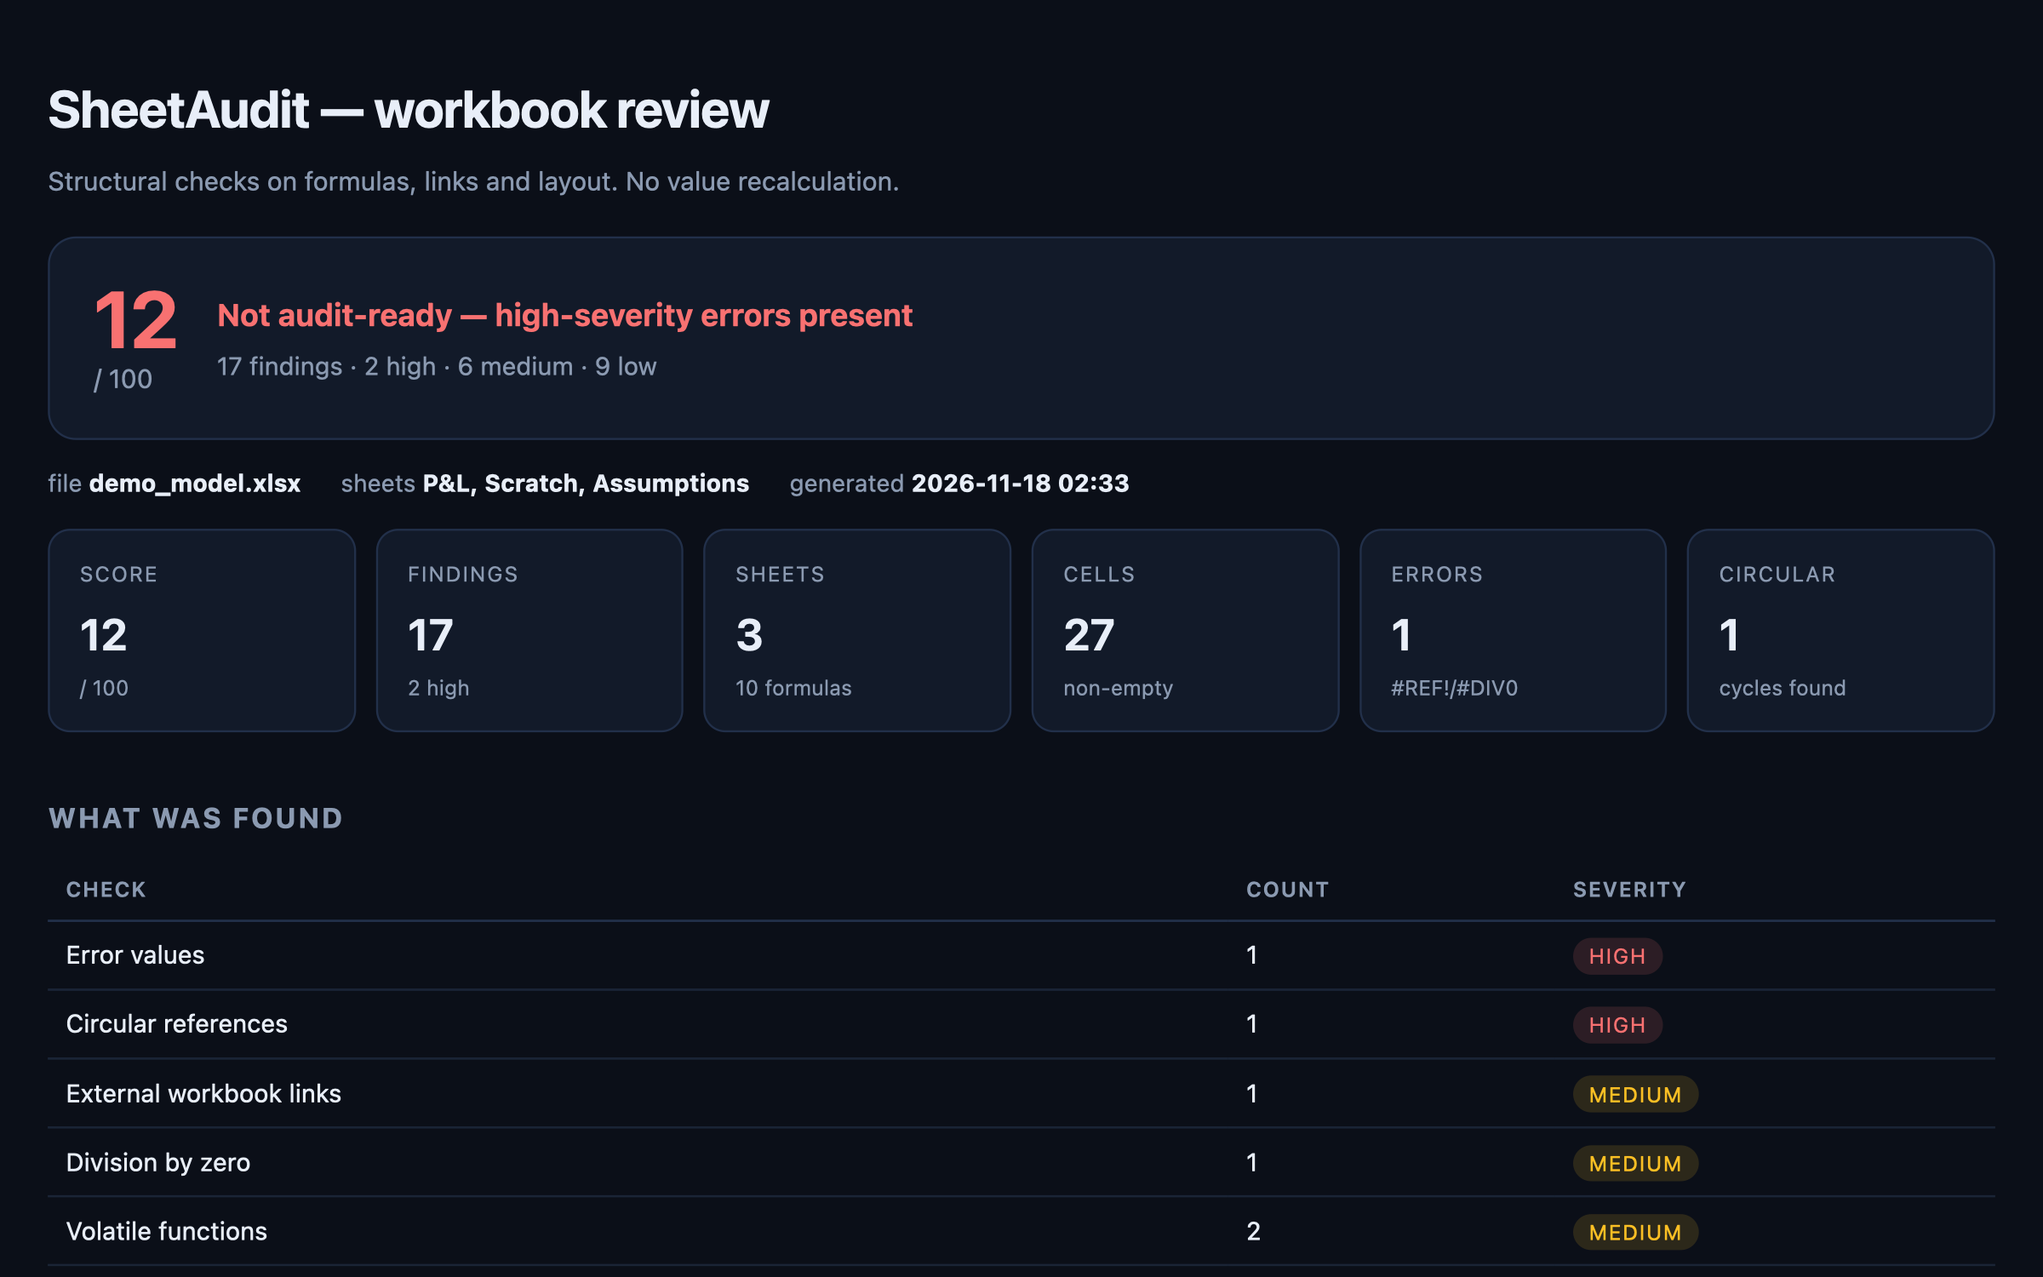
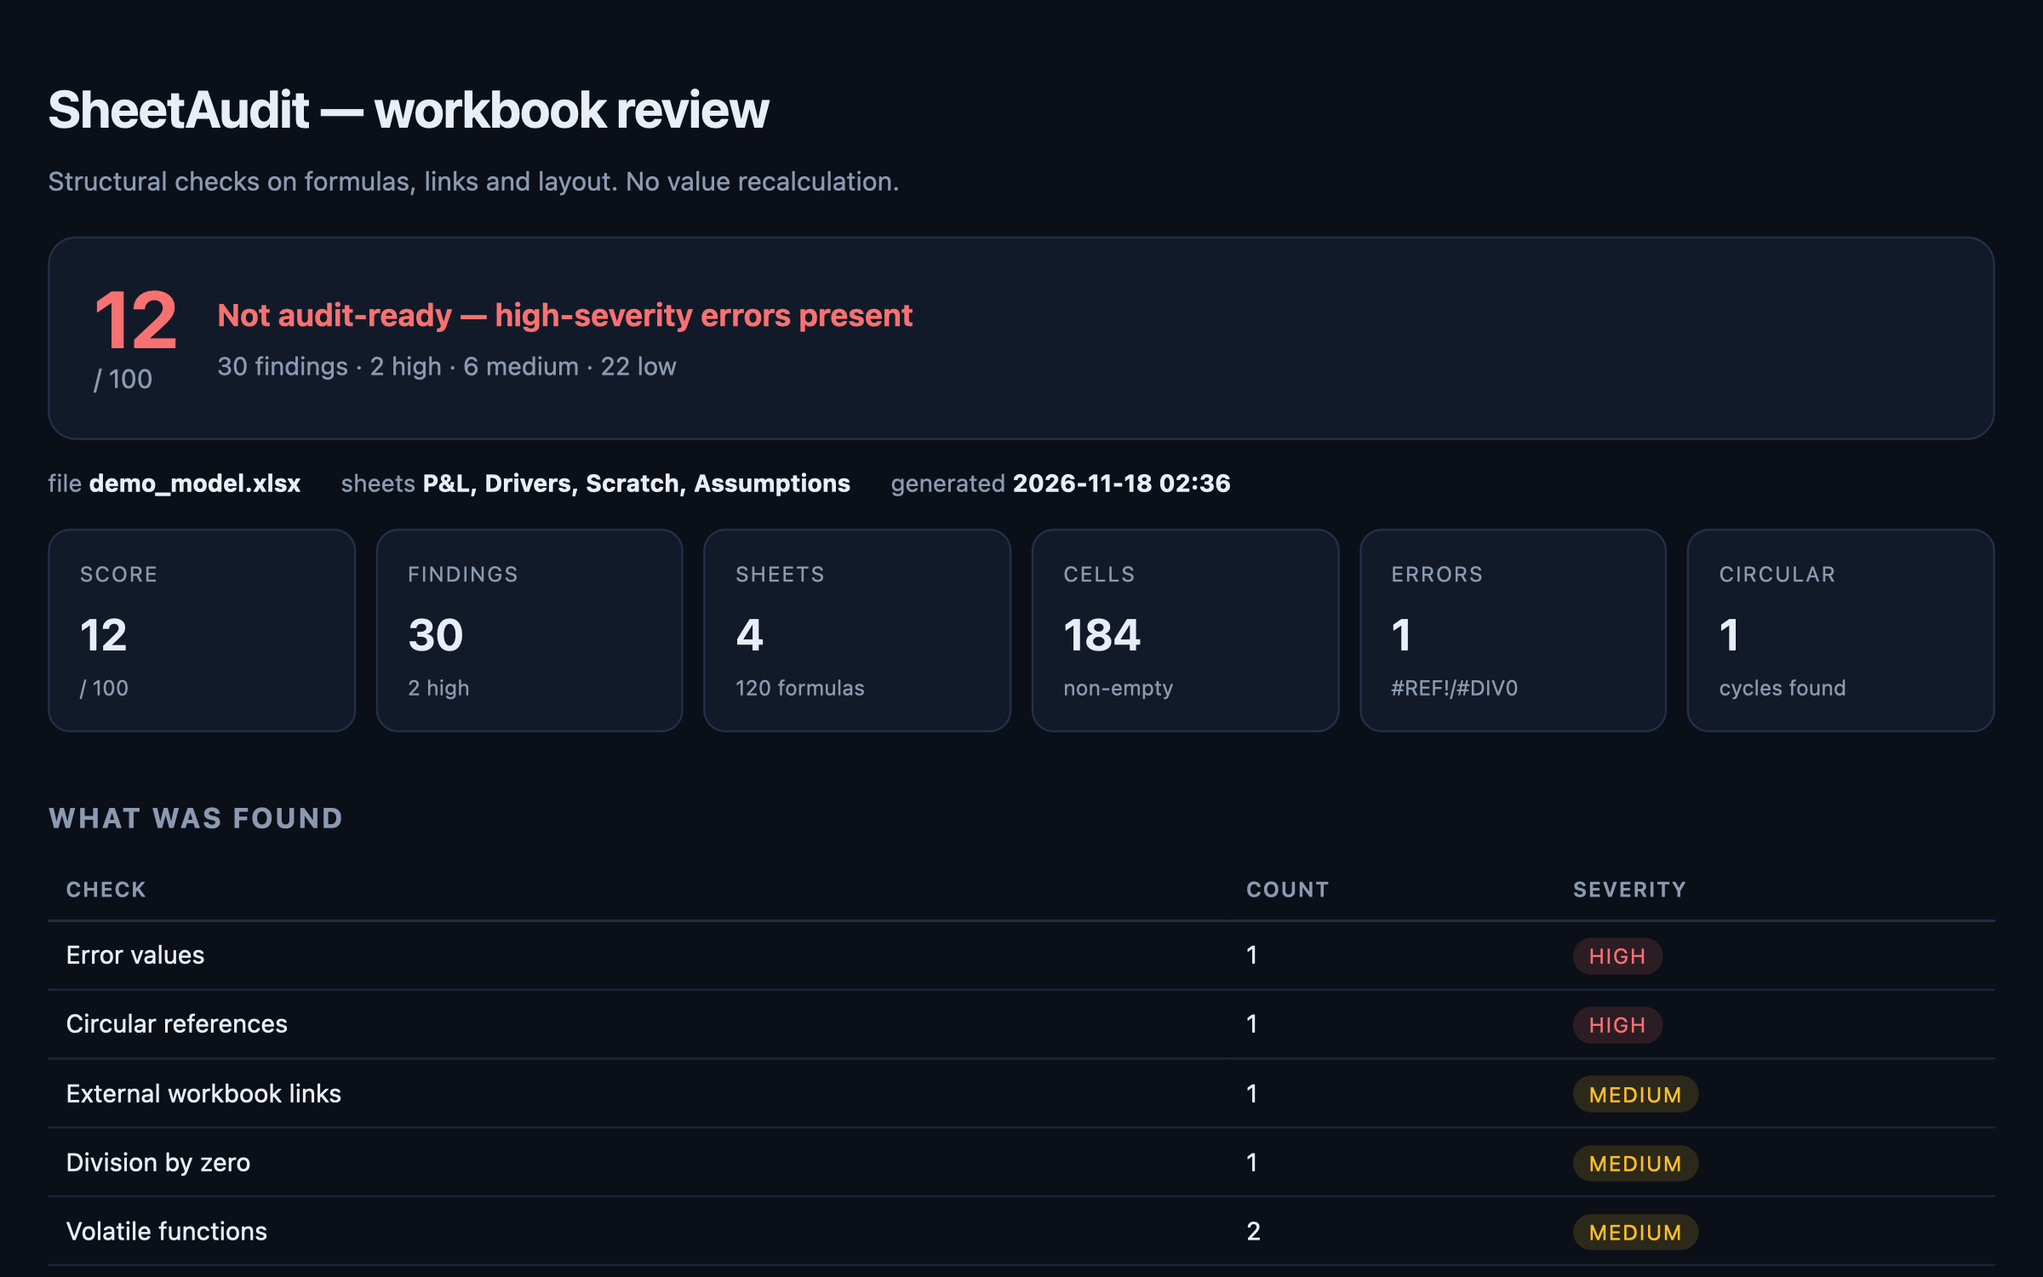
fix cross-sheet references being mis-read as cycles; tighten drift and constant heuristics

diff --git a/examples/sheetaudit-report.html b/examples/sheetaudit-report.html
@@ -46,12 +46,12 @@ font-size:11.5px;display:flex;justify-content:space-between;flex-wrap:wrap;gap:8
 <div class="hero"><div><div class="score" style="color:#f87171">12</div>
 <div class="sub">/ 100</div></div>
 <div><div class="vt" style="color:#f87171">Not audit-ready — high-severity errors present</div>
-<div class="vd">17 findings · 2 high ·
-6 medium · 9 low</div></div></div>
+<div class="vd">30 findings · 2 high ·
+6 medium · 22 low</div></div></div>
 <div class="meta">
 <span>file <b>demo_model.xlsx</b></span>
-<span>sheets <b>P&amp;L, Scratch, Assumptions</b></span>
-<span>generated <b>2026-11-18 02:33</b></span></div>
-<div class="cards"><div class="card"><div class="l">Score</div><div class="v">12</div><div class="f">/ 100</div></div><div class="card"><div class="l">Findings</div><div class="v">17</div><div class="f">2 high</div></div><div class="card"><div class="l">Sheets</div><div class="v">3</div><div class="f">10 formulas</div></div><div class="card"><div class="l">Cells</div><div class="v">27</div><div class="f">non-empty</div></div><div class="card"><div class="l">Errors</div><div class="v">1</div><div class="f">#REF!/#DIV0</div></div><div class="card"><div class="l">Circular</div><div class="v">1</div><div class="f">cycles found</div></div></div>
-<h2>What was found</h2><table><thead><tr><th>Check</th><th>Count</th><th>Severity</th></tr></thead><tbody><tr><td>Error values</td><td>1</td><td><span class="badge high">high</span></td></tr><tr><td>Circular references</td><td>1</td><td><span class="badge high">high</span></td></tr><tr><td>External workbook links</td><td>1</td><td><span class="badge medium">medium</span></td></tr><tr><td>Division by zero</td><td>1</td><td><span class="badge medium">medium</span></td></tr><tr><td>Volatile functions</td><td>2</td><td><span class="badge medium">medium</span></td></tr><tr><td>Formula drift in a column</td><td>1</td><td><span class="badge medium">medium</span></td></tr><tr><td>Hidden sheets with live formulas</td><td>1</td><td><span class="badge medium">medium</span></td></tr><tr><td>Hardcoded constants in formulas</td><td>6</td><td><span class="badge low">low</span></td></tr><tr><td>Numbers stored as text</td><td>1</td><td><span class="badge low">low</span></td></tr><tr><td>Merged cells</td><td>1</td><td><span class="badge low">low</span></td></tr><tr><td>Workbook structure not protected</td><td>1</td><td><span class="badge low">low</span></td></tr></tbody></table><h2>Findings</h2><table><thead><tr><th>Severity</th><th>Check</th><th>Sheet</th><th>Cell</th><th>Detail</th></tr></thead><tbody><tr><td><span class="badge high">high</span></td><td>error_value</td><td>P&amp;L</td><td><span class="mono">B9</span></td><td>#REF! in B9</td></tr><tr><td><span class="badge high">high</span></td><td>circular_reference</td><td>Scratch</td><td><span class="mono">A1</span></td><td>cycle: A1</td></tr><tr><td><span class="badge medium">medium</span></td><td>inconsistent_formula</td><td>P&amp;L</td><td><span class="mono">C6</span></td><td>1 of 5 cells in this column deviate from the pattern</td></tr><tr><td><span class="badge medium">medium</span></td><td>volatile_function</td><td>P&amp;L</td><td><span class="mono">D2</span></td><td>INDIRECT forces recalculation</td></tr><tr><td><span class="badge medium">medium</span></td><td>external_link</td><td>P&amp;L</td><td><span class="mono">E2</span></td><td>formula points at another workbook</td></tr><tr><td><span class="badge medium">medium</span></td><td>division_by_zero</td><td>P&amp;L</td><td><span class="mono">F2</span></td><td>formula divides by a literal zero</td></tr><tr><td><span class="badge medium">medium</span></td><td>hidden_sheet</td><td>Scratch</td><td><span class="mono">-</span></td><td>sheet is hidden with 2 live formulas</td></tr><tr><td><span class="badge medium">medium</span></td><td>volatile_function</td><td>Scratch</td><td><span class="mono">A2</span></td><td>OFFSET forces recalculation</td></tr><tr><td><span class="badge low">low</span></td><td>no_structure_protection</td><td>&lt;workbook&gt;</td><td><span class="mono">-</span></td><td>sheets can be added, deleted or reordered without a password</td></tr><tr><td><span class="badge low">low</span></td><td>number_as_text</td><td>P&amp;L</td><td><span class="mono">A10</span></td><td>numeric text &#x27;1234&#x27; will not sum</td></tr><tr><td><span class="badge low">low</span></td><td>merged_cells</td><td>P&amp;L</td><td><span class="mono">A12:B12</span></td><td>merged range can break sorting and copy-down</td></tr><tr><td><span class="badge low">low</span></td><td>hardcoded_constant</td><td>P&amp;L</td><td><span class="mono">C2</span></td><td>formula carries 1 constants: 1.05</td></tr><tr><td><span class="badge low">low</span></td><td>hardcoded_constant</td><td>P&amp;L</td><td><span class="mono">C3</span></td><td>formula carries 1 constants: 1.05</td></tr><tr><td><span class="badge low">low</span></td><td>hardcoded_constant</td><td>P&amp;L</td><td><span class="mono">C4</span></td><td>formula carries 1 constants: 1.05</td></tr><tr><td><span class="badge low">low</span></td><td>hardcoded_constant</td><td>P&amp;L</td><td><span class="mono">C5</span></td><td>formula carries 1 constants: 1.05</td></tr><tr><td><span class="badge low">low</span></td><td>hardcoded_constant</td><td>P&amp;L</td><td><span class="mono">C6</span></td><td>formula carries 1 constants: 1.08</td></tr><tr><td><span class="badge low">low</span></td><td>hardcoded_constant</td><td>P&amp;L</td><td><span class="mono">E2</span></td><td>formula carries 1 constants: 2025</td></tr></tbody></table><footer><span>SheetAudit 0.1.0 · built on openpyxl (MIT)</span>
+<span>sheets <b>P&amp;L, Drivers, Scratch, Assumptions</b></span>
+<span>generated <b>2026-11-18 02:36</b></span></div>
+<div class="cards"><div class="card"><div class="l">Score</div><div class="v">12</div><div class="f">/ 100</div></div><div class="card"><div class="l">Findings</div><div class="v">30</div><div class="f">2 high</div></div><div class="card"><div class="l">Sheets</div><div class="v">4</div><div class="f">120 formulas</div></div><div class="card"><div class="l">Cells</div><div class="v">184</div><div class="f">non-empty</div></div><div class="card"><div class="l">Errors</div><div class="v">1</div><div class="f">#REF!/#DIV0</div></div><div class="card"><div class="l">Circular</div><div class="v">1</div><div class="f">cycles found</div></div></div>
+<h2>What was found</h2><table><thead><tr><th>Check</th><th>Count</th><th>Severity</th></tr></thead><tbody><tr><td>Error values</td><td>1</td><td><span class="badge high">high</span></td></tr><tr><td>Circular references</td><td>1</td><td><span class="badge high">high</span></td></tr><tr><td>External workbook links</td><td>1</td><td><span class="badge medium">medium</span></td></tr><tr><td>Division by zero</td><td>1</td><td><span class="badge medium">medium</span></td></tr><tr><td>Volatile functions</td><td>2</td><td><span class="badge medium">medium</span></td></tr><tr><td>Formula drift in a column</td><td>1</td><td><span class="badge medium">medium</span></td></tr><tr><td>Hidden sheets with live formulas</td><td>1</td><td><span class="badge medium">medium</span></td></tr><tr><td>Hardcoded constants in formulas</td><td>20</td><td><span class="badge low">low</span></td></tr><tr><td>Merged cells</td><td>1</td><td><span class="badge low">low</span></td></tr><tr><td>Workbook structure not protected</td><td>1</td><td><span class="badge low">low</span></td></tr></tbody></table><h2>Findings</h2><table><thead><tr><th>Severity</th><th>Check</th><th>Sheet</th><th>Cell</th><th>Detail</th></tr></thead><tbody><tr><td><span class="badge high">high</span></td><td>error_value</td><td>P&amp;L</td><td><span class="mono">B24</span></td><td>#REF! in B24</td></tr><tr><td><span class="badge high">high</span></td><td>circular_reference</td><td>Scratch</td><td><span class="mono">A1</span></td><td>cycle: A1</td></tr><tr><td><span class="badge medium">medium</span></td><td>inconsistent_formula</td><td>P&amp;L</td><td><span class="mono">C20</span></td><td>1 of 19 cells in this column deviate from the pattern</td></tr><tr><td><span class="badge medium">medium</span></td><td>volatile_function</td><td>P&amp;L</td><td><span class="mono">D2</span></td><td>INDIRECT forces recalculation</td></tr><tr><td><span class="badge medium">medium</span></td><td>external_link</td><td>P&amp;L</td><td><span class="mono">E2</span></td><td>formula points at another workbook</td></tr><tr><td><span class="badge medium">medium</span></td><td>division_by_zero</td><td>P&amp;L</td><td><span class="mono">F2</span></td><td>formula divides by a literal zero</td></tr><tr><td><span class="badge medium">medium</span></td><td>hidden_sheet</td><td>Scratch</td><td><span class="mono">-</span></td><td>sheet is hidden with 2 live formulas</td></tr><tr><td><span class="badge medium">medium</span></td><td>volatile_function</td><td>Scratch</td><td><span class="mono">A2</span></td><td>OFFSET forces recalculation</td></tr><tr><td><span class="badge low">low</span></td><td>no_structure_protection</td><td>&lt;workbook&gt;</td><td><span class="mono">-</span></td><td>sheets can be added, deleted or reordered without a password</td></tr><tr><td><span class="badge low">low</span></td><td>merged_cells</td><td>P&amp;L</td><td><span class="mono">A28:B28</span></td><td>merged range can break sorting and copy-down</td></tr><tr><td><span class="badge low">low</span></td><td>hardcoded_constant</td><td>P&amp;L</td><td><span class="mono">C10</span></td><td>formula carries 1 hardcoded constant(s): 1.05</td></tr><tr><td><span class="badge low">low</span></td><td>hardcoded_constant</td><td>P&amp;L</td><td><span class="mono">C11</span></td><td>formula carries 1 hardcoded constant(s): 1.05</td></tr><tr><td><span class="badge low">low</span></td><td>hardcoded_constant</td><td>P&amp;L</td><td><span class="mono">C12</span></td><td>formula carries 1 hardcoded constant(s): 1.05</td></tr><tr><td><span class="badge low">low</span></td><td>hardcoded_constant</td><td>P&amp;L</td><td><span class="mono">C13</span></td><td>formula carries 1 hardcoded constant(s): 1.05</td></tr><tr><td><span class="badge low">low</span></td><td>hardcoded_constant</td><td>P&amp;L</td><td><span class="mono">C14</span></td><td>formula carries 1 hardcoded constant(s): 1.05</td></tr><tr><td><span class="badge low">low</span></td><td>hardcoded_constant</td><td>P&amp;L</td><td><span class="mono">C15</span></td><td>formula carries 1 hardcoded constant(s): 1.05</td></tr><tr><td><span class="badge low">low</span></td><td>hardcoded_constant</td><td>P&amp;L</td><td><span class="mono">C16</span></td><td>formula carries 1 hardcoded constant(s): 1.05</td></tr><tr><td><span class="badge low">low</span></td><td>hardcoded_constant</td><td>P&amp;L</td><td><span class="mono">C17</span></td><td>formula carries 1 hardcoded constant(s): 1.05</td></tr><tr><td><span class="badge low">low</span></td><td>hardcoded_constant</td><td>P&amp;L</td><td><span class="mono">C18</span></td><td>formula carries 1 hardcoded constant(s): 1.05</td></tr><tr><td><span class="badge low">low</span></td><td>hardcoded_constant</td><td>P&amp;L</td><td><span class="mono">C19</span></td><td>formula carries 1 hardcoded constant(s): 1.05</td></tr><tr><td><span class="badge low">low</span></td><td>hardcoded_constant</td><td>P&amp;L</td><td><span class="mono">C2</span></td><td>formula carries 1 hardcoded constant(s): 1.05</td></tr><tr><td><span class="badge low">low</span></td><td>hardcoded_constant</td><td>P&amp;L</td><td><span class="mono">C20</span></td><td>formula carries 1 hardcoded constant(s): 1.08</td></tr><tr><td><span class="badge low">low</span></td><td>hardcoded_constant</td><td>P&amp;L</td><td><span class="mono">C3</span></td><td>formula carries 1 hardcoded constant(s): 1.05</td></tr><tr><td><span class="badge low">low</span></td><td>hardcoded_constant</td><td>P&amp;L</td><td><span class="mono">C4</span></td><td>formula carries 1 hardcoded constant(s): 1.05</td></tr><tr><td><span class="badge low">low</span></td><td>hardcoded_constant</td><td>P&amp;L</td><td><span class="mono">C5</span></td><td>formula carries 1 hardcoded constant(s): 1.05</td></tr><tr><td><span class="badge low">low</span></td><td>hardcoded_constant</td><td>P&amp;L</td><td><span class="mono">C6</span></td><td>formula carries 1 hardcoded constant(s): 1.05</td></tr><tr><td><span class="badge low">low</span></td><td>hardcoded_constant</td><td>P&amp;L</td><td><span class="mono">C7</span></td><td>formula carries 1 hardcoded constant(s): 1.05</td></tr><tr><td><span class="badge low">low</span></td><td>hardcoded_constant</td><td>P&amp;L</td><td><span class="mono">C8</span></td><td>formula carries 1 hardcoded constant(s): 1.05</td></tr><tr><td><span class="badge low">low</span></td><td>hardcoded_constant</td><td>P&amp;L</td><td><span class="mono">C9</span></td><td>formula carries 1 hardcoded constant(s): 1.05</td></tr><tr><td><span class="badge low">low</span></td><td>hardcoded_constant</td><td>P&amp;L</td><td><span class="mono">E2</span></td><td>formula carries 1 hardcoded constant(s): 2025</td></tr></tbody></table><footer><span>SheetAudit 0.1.0 · built on openpyxl (MIT)</span>
 <span>Static analysis only: cached values are not recalculated.</span></footer></div></body></html>

diff --git a/sheetaudit/cli.py b/sheetaudit/cli.py
@@ -26,20 +26,37 @@ def demo_workbook(path: Path) -> Path:
     ws = wb.active
     ws.title = "P&L"
 
-    ws["A1"], ws["B1"], ws["C1"] = "Item", "Amount", "Growth"
-    items = [("Revenue", 1200), ("COGS", 480), ("Gross profit", 720), ("Opex", 300), ("EBIT", 420)]
+    ws["A1"], ws["B1"], ws["C1"] = "Item", "FY24", "FY25"
+    items = [
+        ("Revenue: product", 1200), ("Revenue: services", 480), ("Revenue: other", 96),
+        ("COGS: materials", 310), ("COGS: freight", 88), ("COGS: labour", 152),
+        ("Gross profit", 1126), ("Sales & marketing", 240), ("Research", 130),
+        ("General & admin", 92), ("Occupancy", 64), ("Software", 38),
+        ("Depreciation", 44), ("Interest", 22), ("FX loss", 15),
+        ("EBIT", 481), ("Tax", 101), ("Net income", 380),
+    ]
     for i, (label, amount) in enumerate(items, start=2):
         ws[f"A{i}"] = label
         ws[f"B{i}"] = amount
         ws[f"C{i}"] = f"=B{i}*1.05"          # hardcoded 1.05 on every row
-    ws["C6"] = "=B6*1.08"                     # one row drifts from the pattern
+    ws["C20"] = "=B20*1.08"                   # one row drifts from the pattern
     ws["D2"] = '=INDIRECT("B2")'              # volatile
     ws["E2"] = "='[Budget2025.xlsx]Sheet1'!B4"  # external workbook link
-    ws["B9"] = "#REF!"                        # error value pasted as text
-    ws["A10"] = "1234"                        # number stored as text
-    ws.merge_cells("A12:B12")
-    ws["A12"] = "Notes merged across two columns"
-    ws["F2"] = "=SUM(B2:B6)/0"                # will blow up on recalculation
+    ws["B24"] = "#REF!"                       # error value pasted as text
+    ws["A26"] = "1,234"                       # number stored as text
+    ws.merge_cells("A28:B28")
+    ws["A28"] = "Notes merged across two columns"
+    ws["F2"] = "=SUM(B2:B19)/0"               # will blow up on recalculation
+
+    drivers = wb.create_sheet("Drivers")
+    drivers["A1"] = "Driver"
+    for month in range(1, 13):
+        drivers.cell(row=1, column=month + 1, value=f"M{month}")
+    for row in range(2, 10):
+        drivers.cell(row=row, column=1, value=f"Driver {row - 1}")
+        for month in range(1, 13):
+            drivers.cell(row=row, column=month + 1,
+                         value=f"=Assumptions!$B$2*{row}+{month}")
 
     hidden = wb.create_sheet("Scratch")
     hidden["A1"] = "=A1+1"                    # circular

diff --git a/sheetaudit/audit.py b/sheetaudit/audit.py
@@ -33,6 +33,10 @@ def _normalise(formula: str) -> str:
 
 def _refs(formula: str, sheet_max_row: int = 10_000) -> Iterable[Tuple[int, int]]:
     for match in CELL_REF.finditer(formula):
+        # `Assumptions!$B$2` is a cross-sheet reference; treating it as a local B2
+        # invents cycles that do not exist.
+        if match.start() > 0 and formula[match.start() - 1] == "!":
+            continue
         col = 0
         for ch in match.group(2):
             col = col * 26 + (ord(ch) - 64)
@@ -131,10 +135,12 @@ def check_hardcoded(book: Dict, threshold: int = 1) -> List[Dict]:
                 continue
             stripped = CELL_REF.sub("", RANGE_REF.sub("", formula))
             numbers = [n for n in NUMBER.findall(stripped)]
-            meaningful = [n for n in numbers if n not in {"0", "1", "2"}]
+            # A decimal literal is a hidden assumption (1.05, 0.075). Small integers are
+            # structural (offsets, indexes) and flagging them floods the report.
+            meaningful = [n for n in numbers if ("." in n or float(n) >= 50)]
             if len(meaningful) >= threshold:
                 out.append(_finding("hardcoded_constant", "low", sheet["name"], cell["ref"],
-                                    f"formula carries {len(meaningful)} constants: "
+                                    f"formula carries {len(meaningful)} hardcoded constant(s): "
                                     + ", ".join(meaningful[:5])))
     return out
 
@@ -227,7 +233,11 @@ def _judge_block(sheet_name: str, block: List[Tuple[int, str, str]], min_block: 
     shapes = Counter(shape for _, shape, _ in block)
     if len(shapes) == 1:
         return []
-    dominant, _ = shapes.most_common(1)[0]
+    dominant, dominant_n = shapes.most_common(1)[0]
+    # A block where every row has its own shape is a legitimate pattern (offset rows,
+    # per-period adders), not drift. Only a clear majority plus a minority is drift.
+    if dominant_n / len(block) < 0.7:
+        return []
     odd = [(ref, shape) for _, shape, ref in block if shape != dominant]
     if not odd:
         return []

diff --git a/tests/test_core.py b/tests/test_core.py
@@ -60,6 +60,18 @@ def test_healthy_formula_chain_is_not_flagged(tmp_path):
     assert "circular_reference" not in checks(result)
 
 
+def test_cross_sheet_reference_is_not_a_cycle(tmp_path):
+    wb = Workbook()
+    ws = wb.active
+    ws["B2"] = "=Assumptions!$B$2*2+1"
+    other = wb.create_sheet("Assumptions")
+    other["B2"] = 0.05
+    path = tmp_path / "cross.xlsx"
+    wb.save(path)
+    result = audit.audit(path)
+    assert "circular_reference" not in checks(result)
+
+
 def test_external_workbook_link(tmp_path):
     path = book(tmp_path, {"A1": "='[Budget.xlsx]Sheet1'!B4"})
     result = audit.audit(path)
